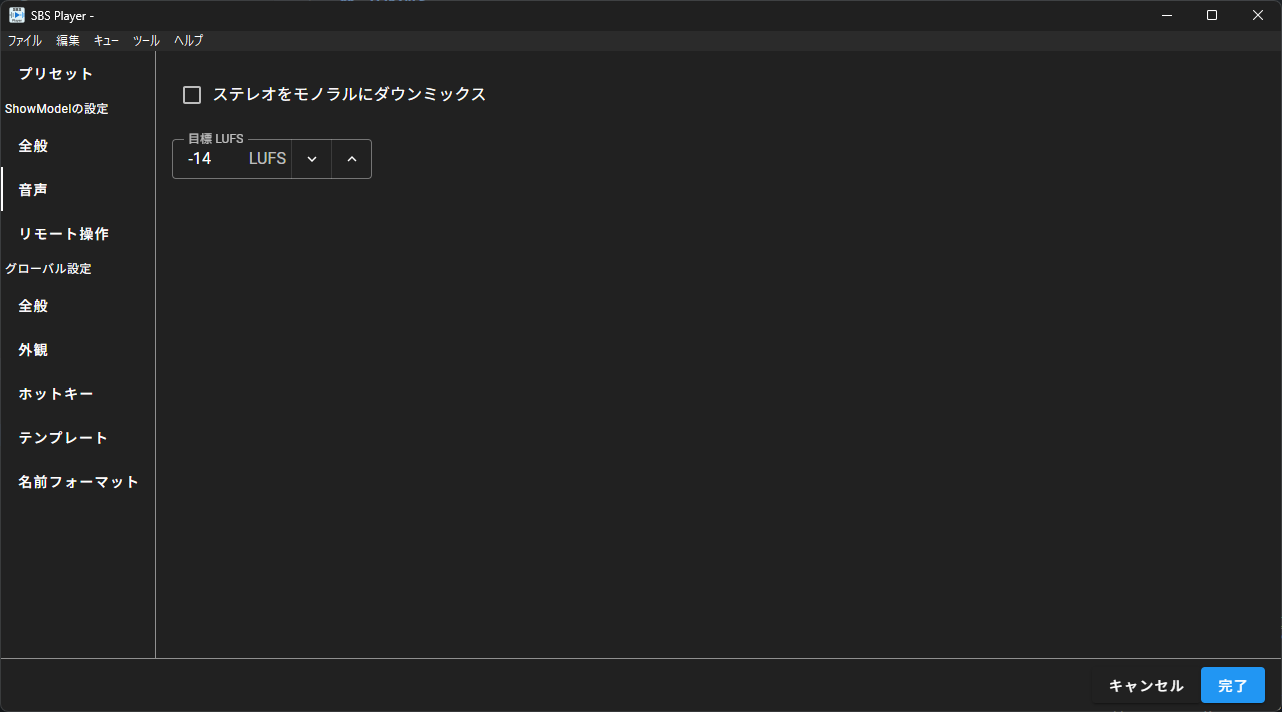
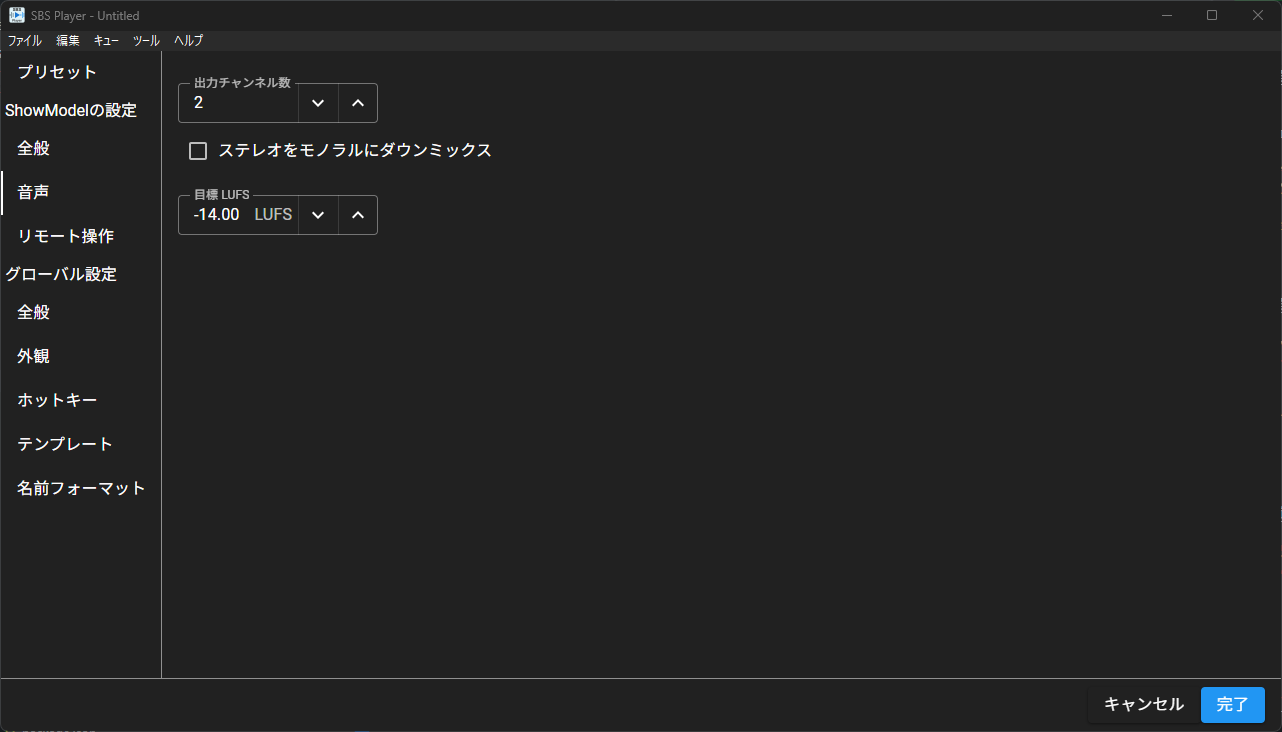
update(docs): rewrite docs for v2.2.0

diff --git a/sbsp_docs/src/usage/ui/main.md b/sbsp_docs/src/usage/ui/main.md
@@ -77,7 +77,7 @@
 #### <svg viewBox="0 0 26 26" width="25" height="25"><circle cx="13" cy="13" r="12" stroke="white" stroke-width="2px" fill="blue" /><text x="13" y="20" text-anchor="middle" fill="white" font-size="14pt">11</text></svg> キューのPre-Wait
 
 キューに設定されたPre-Waitを表示します。
-Pre-Waitはキューが実行されるまでの待機時間を表します。詳細は　　　を参照してください。
+Pre-Waitはキューが実行されるまでの待機時間を表します。
 キューエディタの基本タブや、編集モード時にダブルクリックすることで編集できます。
 
 キューが実行前待機中である場合は待機の進捗が表示されます。
@@ -89,13 +89,6 @@ Pre-Waitはキューが実行されるまでの待機時間を表します。詳
 
 キューが実行中である場合は時間の進捗が表示されます。
 
-#### <svg viewBox="0 0 26 26" width="25" height="25"><circle cx="13" cy="13" r="12" stroke="white" stroke-width="2px" fill="blue" /><text x="13" y="20" text-anchor="middle" fill="white" font-size="14pt">13</text></svg> キューのPost-Wait
-
-キューに連鎖モードが設定されている場合、実行されてから連鎖がトリガーされるまでの時間を表示します。
-キューエディタの基本タブや、編集モード時にダブルクリックすることで編集できます。
-
-キューが実行中である場合は連鎖がトリガーされるまでの進捗が表示されます。
-
 ::: info NOTE
 時間を表示する列のヘッダーにあるアイコンをクリックすることで以下の２つの表示モードを切り替えることができます。
 
@@ -106,14 +99,14 @@ Pre-Waitはキューが実行されるまでの待機時間を表します。詳
 
 ---
 
-### <svg viewBox="0 0 26 26" width="25" height="25"><circle cx="13" cy="13" r="12" stroke="white" stroke-width="2px" fill="blue" /><text x="13" y="20" text-anchor="middle" fill="white" font-size="14pt">14</text></svg> キューのリピート設定
+### <svg viewBox="0 0 26 26" width="25" height="25"><circle cx="13" cy="13" r="12" stroke="white" stroke-width="2px" fill="blue" /><text x="13" y="20" text-anchor="middle" fill="white" font-size="14pt">13</text></svg> キューのリピート設定
 
 - 音声キューがリピート設定されている場合
 - グループキューが"プレイリスト"モードに設定されており、リピート設定されている場合
 
 にリピートアイコン（<svg xmlns="http://www.w3.org/2000/svg" viewBox="0 0 24 24" width="20" height="20"><title>repeat</title><path d="M17,17H7V14L3,18L7,22V19H19V13H17M7,7H17V10L21,6L17,2V5H5V11H7V7Z" fill="white" /></svg>）を表示します。
 
-### <svg viewBox="0 0 26 26" width="25" height="25"><circle cx="13" cy="13" r="12" stroke="white" stroke-width="2px" fill="blue" /><text x="13" y="20" text-anchor="middle" fill="white" font-size="14pt">15</text></svg> キューの連鎖モード設定
+### <svg viewBox="0 0 26 26" width="25" height="25"><circle cx="13" cy="13" r="12" stroke="white" stroke-width="2px" fill="blue" /><text x="13" y="20" text-anchor="middle" fill="white" font-size="14pt">14</text></svg> キューの連鎖モード設定
 
 連鎖モードが"自動継続"の場合は<svg xmlns="http://www.w3.org/2000/svg" viewBox="0 0 24 24" width="20" height="20"><title>arrow-down</title><path d="M11,4H13V16L18.5,10.5L19.92,11.92L12,19.84L4.08,11.92L5.5,10.5L11,16V4Z" fill="white" /></svg>
 連鎖モードが"自動追従"の場合は<svg xmlns="http://www.w3.org/2000/svg" viewBox="0 0 24 24" width="20" height="20"><title>arrow-expand-down</title><path d="M22,4V2H2V4H11V18.17L5.5,12.67L4.08,14.08L12,22L19.92,14.08L18.5,12.67L13,18.17V4H22Z" fill="white" /></svg>
@@ -121,7 +114,7 @@ Pre-Waitはキューが実行されるまでの待機時間を表します。詳
 
 ## サイドパネル
 
-### <svg viewBox="0 0 26 26" width="25" height="25"><circle cx="13" cy="13" r="12" stroke="white" stroke-width="2px" fill="#349e33" /><text x="13" y="20" text-anchor="middle" fill="white" font-size="14pt">16</text></svg> 実行中のキュー
+### <svg viewBox="0 0 26 26" width="25" height="25"><circle cx="13" cy="13" r="12" stroke="white" stroke-width="2px" fill="#349e33" /><text x="13" y="20" text-anchor="middle" fill="white" font-size="14pt">15</text></svg> 実行中のキュー
 
 実行中のキューを表示します。
 キューの番号、名前、経過時間、残り時間、再生中のリピート設定等が表示されます。
@@ -130,88 +123,52 @@ Pre-Waitはキューが実行されるまでの待機時間を表します。詳
 
 ## 下部エディタ
 
-### "基本"タブ
+ここでは、選択したキューについて、様々な設定を変更することができます。
 
-選択中のキューについて、情報や設定を変更することができます。
-（選択中のキューであり、カーソルとは関係ありません。）
+### <svg viewBox="0 0 26 26" width="25" height="25"><circle cx="13" cy="13" r="12" stroke="black" stroke-width="2px" fill="#fff800" /><text x="13" y="20" text-anchor="middle" fill="black" font-size="13pt">16</text></svg> エディタタブ
 
-#### <svg viewBox="0 0 26 26" width="25" height="25"><circle cx="13" cy="13" r="12" stroke="black" stroke-width="2px" fill="#fff800" /><text x="13" y="20" text-anchor="middle" fill="black" font-size="13pt">17</text></svg> キュー番号
+選択しているキューについて、"基本" タブや、キューの種類に応じて様々な種類のエディタのタブが表示されます。
+タブをクリックすることでそのエディタを開きます。
 
-キューに設定される番号を編集します。
+"基本" エディタに関しては[こちらのページ](./basic_editor.md)の説明を参照してください。
 
-**再生される順序とは関係ありません。**
-数値だけでなく、文字列も使用することができます。
+それぞれのキューのエディタについてはキューの説明を参照してください。
 
-#### <svg viewBox="0 0 26 26" width="25" height="25"><circle cx="13" cy="13" r="12" stroke="black" stroke-width="2px" fill="#fff800" /><text x="13" y="20" text-anchor="middle" fill="black" font-size="13pt">18</text></svg> キューの名前
+### <svg viewBox="0 0 26 26" width="25" height="25"><circle cx="13" cy="13" r="12" stroke="black" stroke-width="2px" fill="#fff800" /><text x="13" y="20" text-anchor="middle" fill="black" font-size="13pt">17</text></svg> エディタ内容
 
-キューに設定される名称を編集します。
-空欄にすることで、キューの種類や設定に応じて自動的に名称が設定されます。
-
-#### <svg viewBox="0 0 26 26" width="25" height="25"><circle cx="13" cy="13" r="12" stroke="black" stroke-width="2px" fill="#fff800" /><text x="13" y="20" text-anchor="middle" fill="black" font-size="13pt">19</text></svg> キューのノート
-
-キューに設定されるノートを編集します。
-上部ヘッダーの[ノート部分](#3-カーソルのあるキューのノート)に表示されるため、タイミング等の情報を記入できます。
-[タイムスタンプ挿入ボタン](#25-ノートへのタイムスタンプ挿入ボタン)を利用することでキューのタイムスタンプを記録できます。
-
-#### <svg viewBox="0 0 26 26" width="25" height="25"><circle cx="13" cy="13" r="12" stroke="black" stroke-width="2px" fill="#fff800" /><text x="13" y="20" text-anchor="middle" fill="black" font-size="13pt">20</text></svg> キューの長さ
-
-音声キューの場合はファイルの音声の長さが表示され編集はできません。
-待機キューの場合は待機時間を、フェードキューの場合はフェードにかける時間を編集することができます。
-
-#### <svg viewBox="0 0 26 26" width="25" height="25"><circle cx="13" cy="13" r="12" stroke="black" stroke-width="2px" fill="#fff800" /><text x="13" y="20" text-anchor="middle" fill="black" font-size="13pt">21</text></svg> キューのPre-Wait
-
-キュー実行前の待機時間を編集できます。
-
-#### <svg viewBox="0 0 26 26" width="25" height="25"><circle cx="13" cy="13" r="12" stroke="black" stroke-width="2px" fill="#fff800" /><text x="13" y="20" text-anchor="middle" fill="black" font-size="13pt">22</text></svg> キューの連鎖モード
-
-キューの連鎖モードを編集できます。
-
-- **連鎖しない**：キュー終了後に何も行いません
-- **自動継続**：キュー開始後にPost-Wait分待機し、対象のキューを実行します。
-- **自動追従**：キュー終了後に対象のキューを実行します。
-
-#### <svg viewBox="0 0 26 26" width="25" height="25"><circle cx="13" cy="13" r="12" stroke="black" stroke-width="2px" fill="#fff800" /><text x="13" y="20" text-anchor="middle" fill="black" font-size="13pt">23</text></svg> キュー連鎖までの待機時間
-
-キューの連鎖モードが"**自動継続**"の場合、キューの実行から対象のキューを実行するまでの時間を編集できます。
-キューの連鎖モードが"**自動追従**"の場合、キューの長さが表示されます。
-
-#### <svg viewBox="0 0 26 26" width="25" height="25"><circle cx="13" cy="13" r="12" stroke="black" stroke-width="2px" fill="#fff800" /><text x="13" y="20" text-anchor="middle" fill="black" font-size="13pt">24</text></svg> キュー連鎖の対象
-
-キューの連鎖モードが設定されている時、連鎖する対象のキューを編集できます。
-デフォルトではキューリストの次のキューが対象となっています。
-
-#### <svg viewBox="0 0 26 26" width="25" height="25"><circle cx="13" cy="13" r="12" stroke="black" stroke-width="2px" fill="#fff800" /><text x="13" y="20" text-anchor="middle" fill="black" font-size="13pt">25</text></svg> ノートへのタイムスタンプ挿入ボタン
-
-キューが実行中の時、現在の経過時間をノートの挿入します。
-タイミングをノートに記入する際に便利です。
+エディタの内容が表示される部分です。キューを選択していない場合は何も表示されません。
 
 ## フッター
 
-### <svg viewBox="0 0 26 26" width="25" height="25"><circle cx="13" cy="13" r="12" stroke="white" stroke-width="2px" fill="#ff00e8" /><text x="13" y="20" text-anchor="middle" fill="white" font-size="13pt">26</text></svg> 編集・実行モードの切り替え
+### <svg viewBox="0 0 26 26" width="25" height="25"><circle cx="13" cy="13" r="12" stroke="white" stroke-width="2px" fill="#ff00e8" /><text x="13" y="20" text-anchor="middle" fill="white" font-size="13pt">18</text></svg> 編集・実行モードの切り替え
 
 編集モードと実行モードを切り替える事ができます。
 
 実行モードでは、[キュー追加ボタン](#5-新規キューの追加ボタン)、[下部エディタ](#下部エディタ)を非表示にします。
 また、[キューリスト](#キューリスト)におけるダブルクリックの編集ができなくなります。
 
-### <svg viewBox="0 0 26 26" width="25" height="25"><circle cx="13" cy="13" r="12" stroke="white" stroke-width="2px" fill="#ff00e8" /><text x="13" y="20" text-anchor="middle" fill="white" font-size="13pt">27</text></svg> キューの総数
+### <svg viewBox="0 0 26 26" width="25" height="25"><circle cx="13" cy="13" r="12" stroke="white" stroke-width="2px" fill="#ff00e8" /><text x="13" y="20" text-anchor="middle" fill="white" font-size="13pt">19</text></svg> キューの総数
 
 リストに含まれるすべてのキューの数を表示します。
 これはグループキュー内部のキューも含まれます。
 
-### <svg viewBox="0 0 26 26" width="25" height="25"><circle cx="13" cy="13" r="12" stroke="white" stroke-width="2px" fill="#ff00e8" /><text x="13" y="20" text-anchor="middle" fill="white" font-size="13pt">28</text></svg> サーバーパネルを開く
+### <svg viewBox="0 0 26 26" width="25" height="25"><circle cx="13" cy="13" r="12" stroke="white" stroke-width="2px" fill="#ff00e8" /><text x="13" y="20" text-anchor="middle" fill="white" font-size="13pt">20</text></svg> サーバーパネルを開く
 
 リモート操作用のサーバー管理パネルを開きます。
 
-### <svg viewBox="0 0 26 26" width="25" height="25"><circle cx="13" cy="13" r="12" stroke="white" stroke-width="2px" fill="#ff00e8" /><text x="13" y="20" text-anchor="middle" fill="white" font-size="13pt">29</text></svg> 下部エディタの表示切り替え
+::: warning NOTE
+この機能を利用するにはライセンス認証が必要です。
+:::
+
+### <svg viewBox="0 0 26 26" width="25" height="25"><circle cx="13" cy="13" r="12" stroke="white" stroke-width="2px" fill="#ff00e8" /><text x="13" y="20" text-anchor="middle" fill="white" font-size="13pt">21</text></svg> 下部エディタの表示切り替え
 
 下部エディタの表示・非表示を切り替えます。
 
-### <svg viewBox="0 0 26 26" width="25" height="25"><circle cx="13" cy="13" r="12" stroke="white" stroke-width="2px" fill="#ff00e8" /><text x="13" y="20" text-anchor="middle" fill="white" font-size="13pt">30</text></svg> サイドパネルの表示切り替え
+### <svg viewBox="0 0 26 26" width="25" height="25"><circle cx="13" cy="13" r="12" stroke="white" stroke-width="2px" fill="#ff00e8" /><text x="13" y="20" text-anchor="middle" fill="white" font-size="13pt">22</text></svg> サイドパネルの表示切り替え
 
 サイドパネルの表示・非表示を切り替えます。
 
-### <svg viewBox="0 0 26 26" width="25" height="25"><circle cx="13" cy="13" r="12" stroke="white" stroke-width="2px" fill="#ff00e8" /><text x="13" y="20" text-anchor="middle" fill="white" font-size="13pt">31</text></svg> 設定画面を開く
+### <svg viewBox="0 0 26 26" width="25" height="25"><circle cx="13" cy="13" r="12" stroke="white" stroke-width="2px" fill="#ff00e8" /><text x="13" y="20" text-anchor="middle" fill="white" font-size="13pt">23</text></svg> 設定画面を開く
 
 [設定画面](./settings)を開きます。
 

diff --git a/sbsp_docs/src/usage/ui/basic_editor.md b/sbsp_docs/src/usage/ui/basic_editor.md
@@ -1,0 +1,53 @@
+# 基本 エディタ
+
+![alt text](basic_editor.png)
+
+## 各項目の詳細
+
+選択中のキューについて、情報や設定を変更することができます。
+（選択中のキューであり、カーソルとは関係ありません。）
+
+### <svg viewBox="0 0 26 26" width="25" height="25"><circle cx="13" cy="13" r="12" stroke="white" stroke-width="2px" fill="red" /><text x="13" y="21" text-anchor="middle" fill="white" font-size="16pt">1</text></svg> キュー番号
+
+キューに設定される番号を編集します。
+
+**再生される順序とは関係ありません。**
+数値だけでなく、文字列も使用することができます。
+
+### <svg viewBox="0 0 26 26" width="25" height="25"><circle cx="13" cy="13" r="12" stroke="white" stroke-width="2px" fill="red" /><text x="13" y="21" text-anchor="middle" fill="white" font-size="16pt">2</text></svg> キューの名前
+
+キューに設定される名称を編集します。
+空欄にすることで、キューの種類や設定に応じて自動的に名称が設定されます。
+
+### <svg viewBox="0 0 26 26" width="25" height="25"><circle cx="13" cy="13" r="12" stroke="white" stroke-width="2px" fill="red" /><text x="13" y="21" text-anchor="middle" fill="white" font-size="16pt">3</text></svg> キューのノート
+
+キューに設定されるノートを編集します。
+上部ヘッダーに表示されるため、タイミング等の情報を記入できます。
+[タイムスタンプ挿入ボタン](#8-ノートへのタイムスタンプ挿入ボタン)を利用することでキューのタイムスタンプを記録できます。
+
+### <svg viewBox="0 0 26 26" width="25" height="25"><circle cx="13" cy="13" r="12" stroke="white" stroke-width="2px" fill="red" /><text x="13" y="21" text-anchor="middle" fill="white" font-size="16pt">4</text></svg> キューの長さ
+
+音声キューの場合はファイルの音声の長さが表示され編集はできません。
+待機キューの場合は待機時間を、フェードキューの場合はフェードにかける時間を編集することができます。
+
+#### <svg viewBox="0 0 26 26" width="25" height="25"><circle cx="13" cy="13" r="12" stroke="white" stroke-width="2px" fill="red" /><text x="13" y="21" text-anchor="middle" fill="white" font-size="16pt">5</text></svg> キューの事前待機時間
+
+キュー実行前の待機時間を編集できます。
+
+#### <svg viewBox="0 0 26 26" width="25" height="25"><circle cx="13" cy="13" r="12" stroke="white" stroke-width="2px" fill="red" /><text x="13" y="21" text-anchor="middle" fill="white" font-size="16pt">6</text></svg> キューの連鎖モード
+
+キューの連鎖モードを編集できます。
+
+- **連鎖しない**：キュー終了後に何も行いません
+- **開始後**：キュー開始後に対象のキューを実行します。
+- **終了後**：キュー終了後に対象のキューを実行します。
+
+#### <svg viewBox="0 0 26 26" width="25" height="25"><circle cx="13" cy="13" r="12" stroke="white" stroke-width="2px" fill="red" /><text x="13" y="21" text-anchor="middle" fill="white" font-size="16pt">7</text></svg> キュー連鎖の対象
+
+キューの連鎖モードが設定されている時、連鎖する対象のキューを編集できます。
+デフォルトではキューリストの次のキューが対象となっています。
+
+#### <svg viewBox="0 0 26 26" width="25" height="25"><circle cx="13" cy="13" r="12" stroke="white" stroke-width="2px" fill="red" /><text x="13" y="21" text-anchor="middle" fill="white" font-size="16pt">8</text></svg> ノートへのタイムスタンプ挿入ボタン
+
+キューが実行中の時、現在の経過時間をノートの挿入します。
+タイミングをノートに記入する際に便利です。

diff --git a/sbsp_docs/src/usage/cues/group.md b/sbsp_docs/src/usage/cues/group.md
@@ -18,6 +18,9 @@
     - **同時実行**
         含まれるすべてのキューを同時に実行します。
 
+    - **先頭を開始**
+        先頭のキューを開始します。
+
 - **リピート**
 
     **グループ実行モードが** が **プレイリスト** モードであるときに設定できます。
@@ -25,3 +28,9 @@
     グループ内の最後のキューが完了したとき、先頭のキューを実行します。
 
     これにより、グループ内のキューを順番に繰り返し再生することができます。
+
+- **実行時にカーソルをグループ内に進める**
+
+    **グループ実行モードが** が **先頭を開始** モードであるときに設定できます。
+
+    グループキューが実行されたときに再生カーソルをグループ内の次のキューに設定します。

diff --git a/sbsp_docs/src/usage/ui/settings.md b/sbsp_docs/src/usage/ui/settings.md
@@ -40,6 +40,9 @@
 
 ![ShowModel音声設定画面](show_audio_settings.png)
 
+- **出力チャンネル数**
+    音声を出力するチャンネル数を設定します。
+
 - **ステレオをモノラルにダウンミックス**
     ステレオの音声をモノラル（LRが同じ音）に変換します。
 
